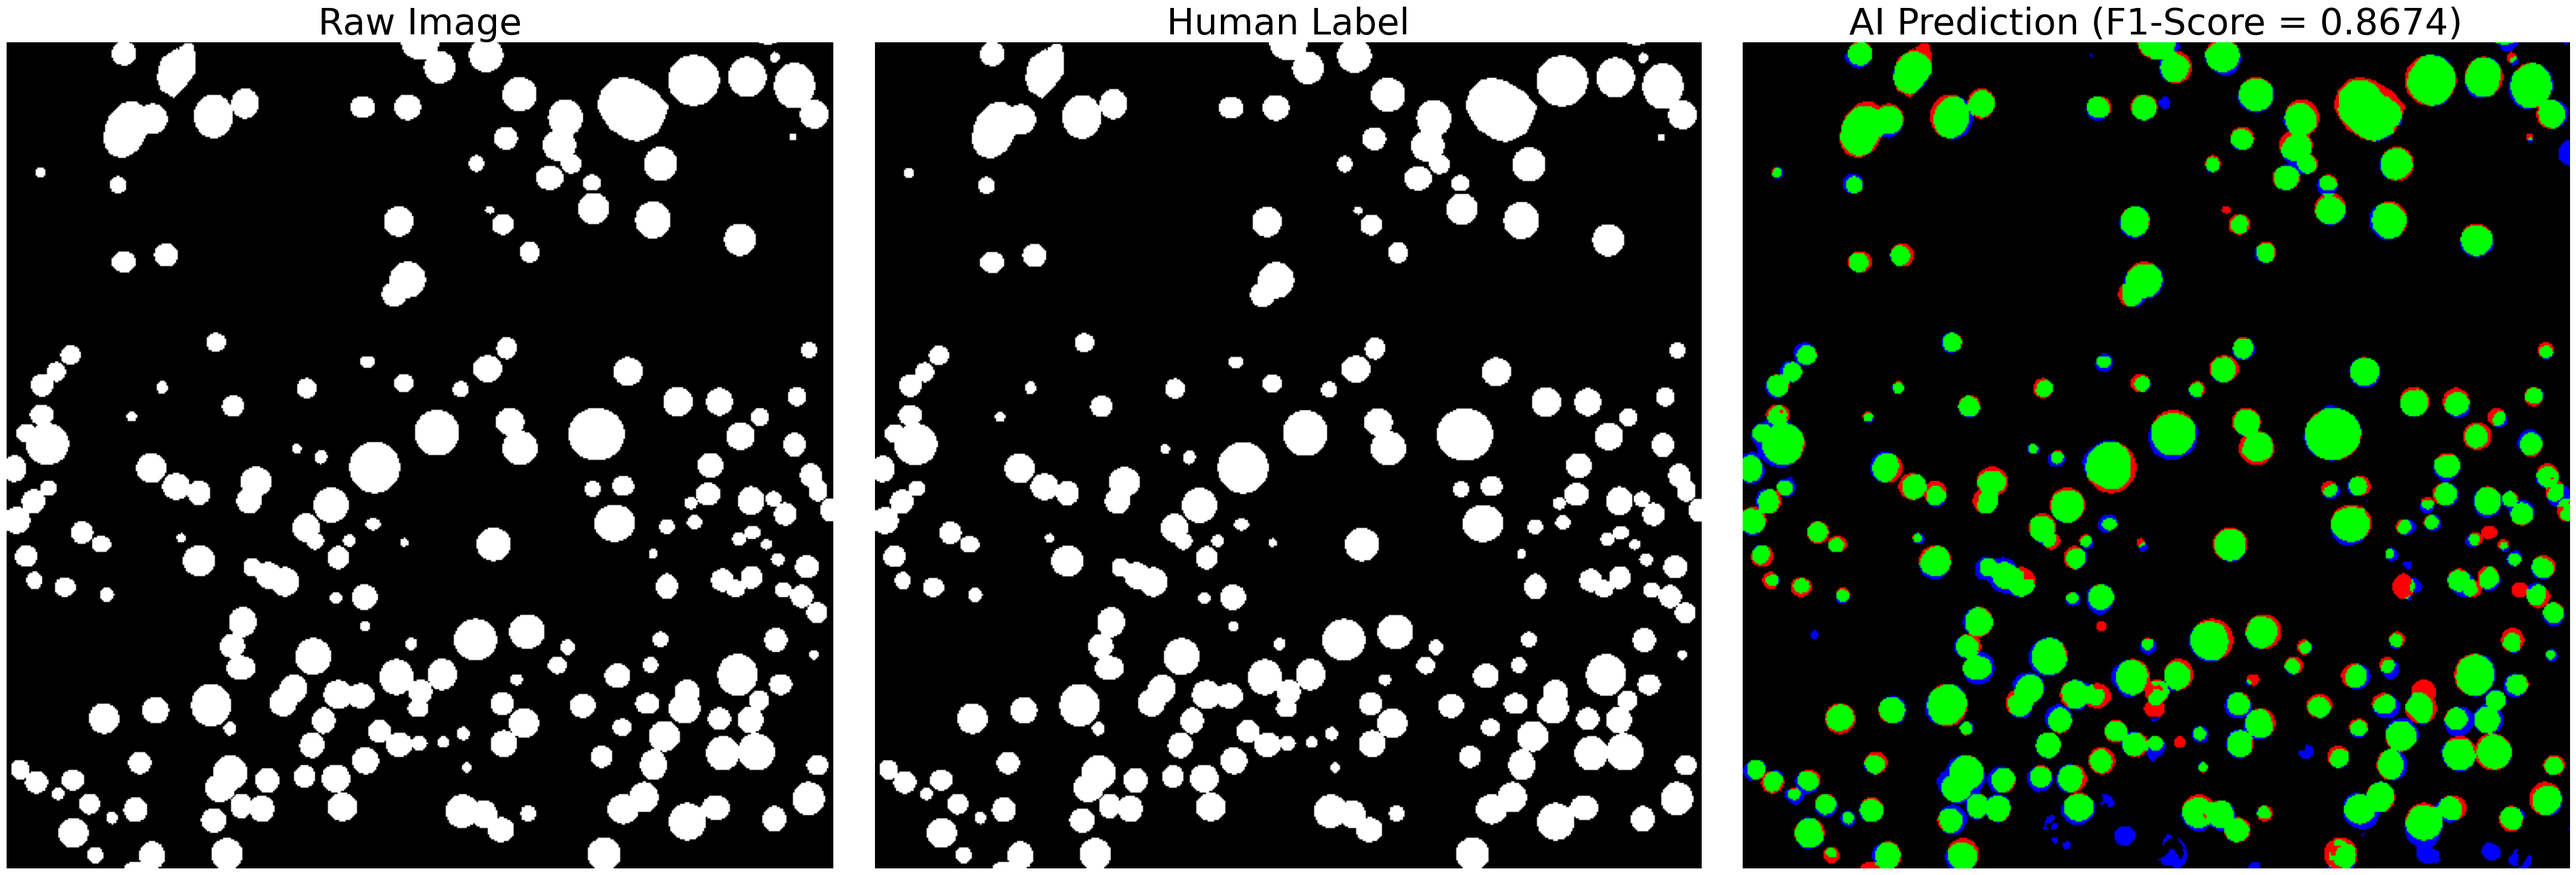
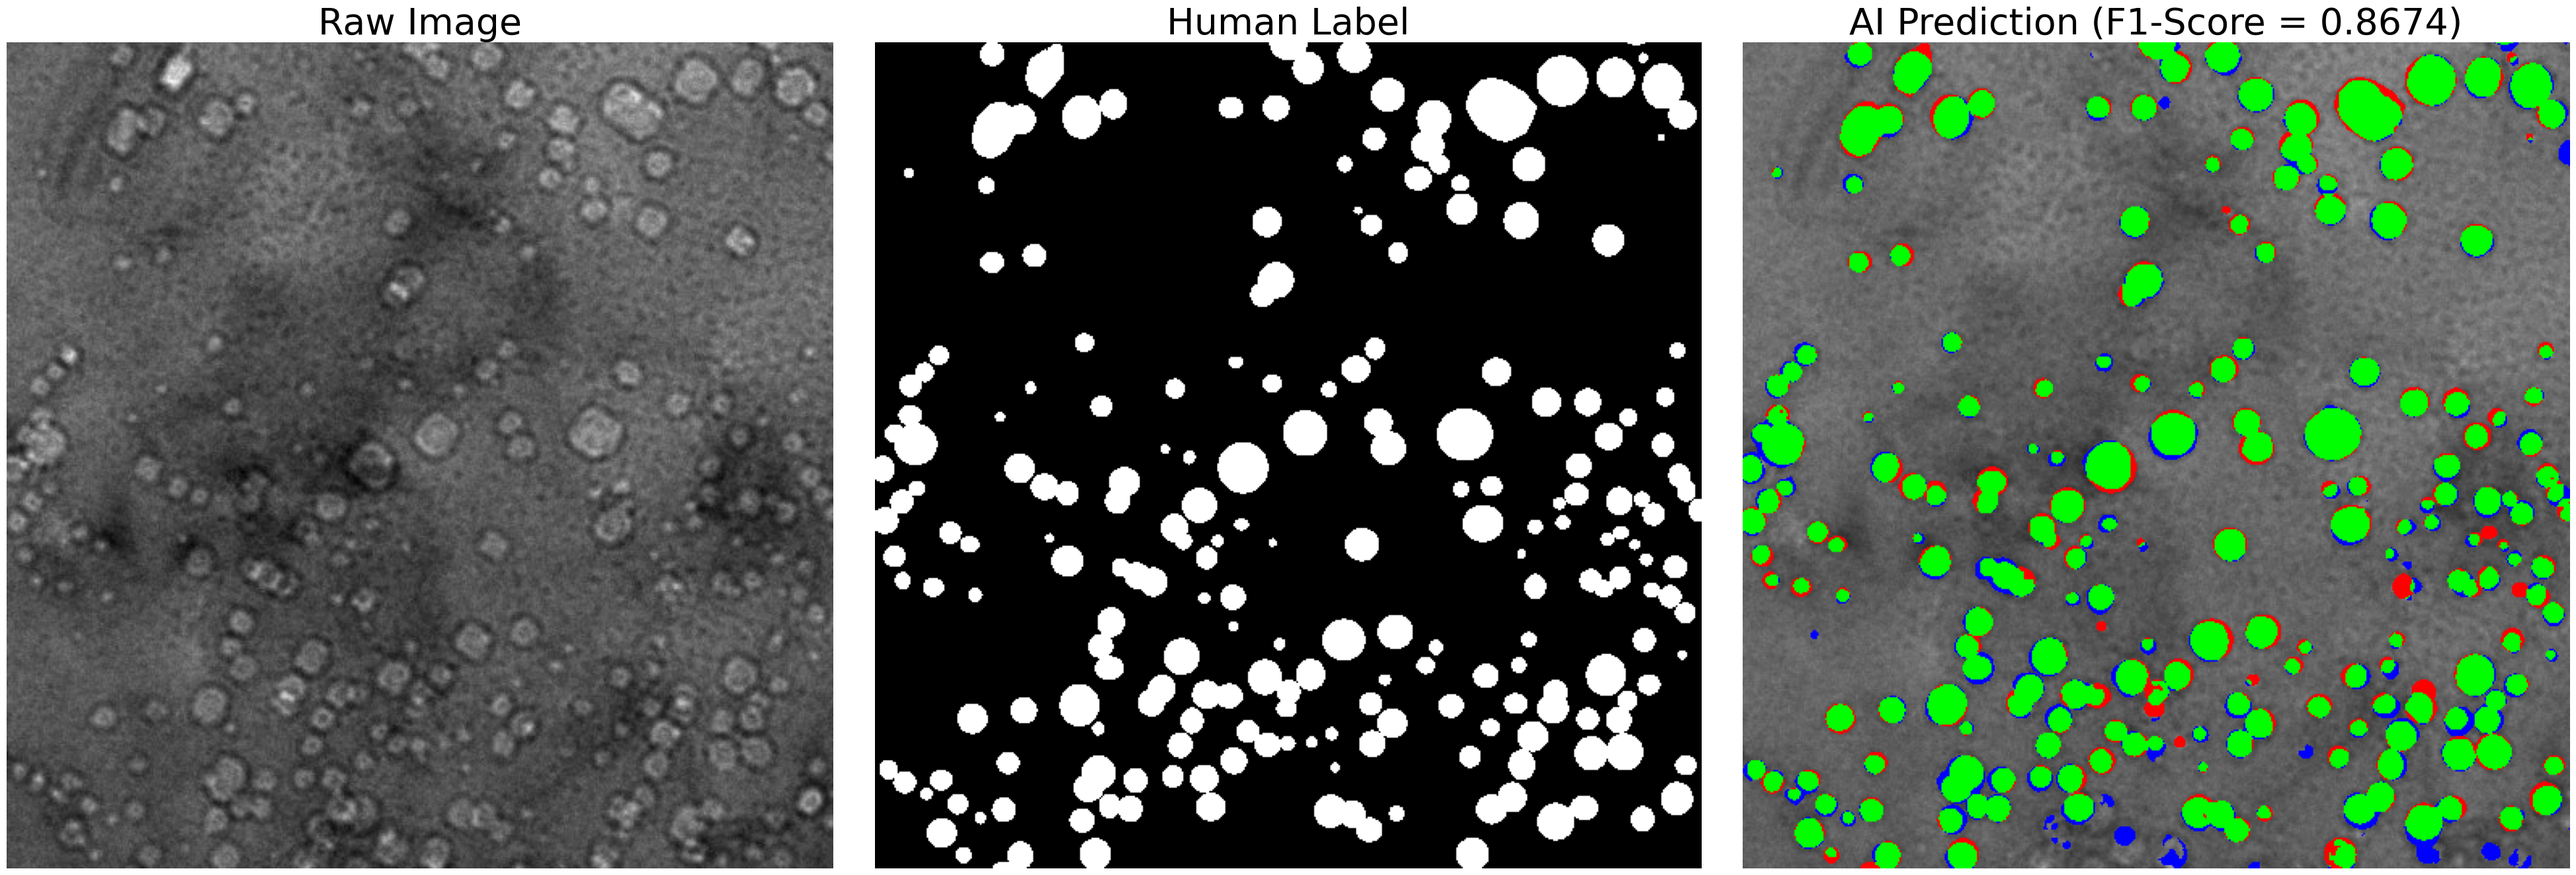
fixed default image dir and updated results; also added an informal requirements file

diff --git a/src/demo.py b/src/demo.py
@@ -19,7 +19,7 @@ parser.add_argument('--image_path',
                     metavar='I', 
                     type=str, 
                     help='path (relative to data_path) to the images used for training', 
-                    default=join(PATH, '../data/labels/'))
+                    default=join(PATH, '../data/images/'))
 
 parser.add_argument('--label_path', 
                     metavar='L', 
